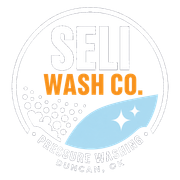
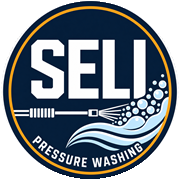
Rebrand as SELI Pressure Washing

diff --git a/src/data/business.ts b/src/data/business.ts
@@ -17,7 +17,7 @@
  *  4. There is no online booking. Requests are confirmed by hand.
  *  5. Square-foot coverage limits and per-square-foot overages are NOT
  *     confirmed and must not be published.
- *  6. Nothing may claim the concrete images are SELI Wash Co. work.
+ *  6. Nothing may claim the concrete images are SELI Pressure Washing work.
  *
  * Anything genuinely undecided is typed as `null` with a TBD comment rather
  * than filled with a plausible guess.
@@ -25,9 +25,9 @@
 
 export const business = {
   /** Public trading name. No legal entity is registered — never append a suffix. */
-  name: 'SELI Wash Co.',
+  name: 'SELI Pressure Washing',
   /** Split for the wordmark treatment only. */
-  nameParts: { lead: 'SELI', rest: 'Wash Co.' },
+  nameParts: { lead: 'SELI', rest: 'Pressure Washing' },
   tagline: 'Concrete Cleaning in Duncan',
 
   /** Plain description of what the business actually does, safe for meta tags. */

diff --git a/src/styles/tokens.css b/src/styles/tokens.css
@@ -1,5 +1,5 @@
 /* ============================================================
-   SELI Wash Co. — design tokens
+   SELI Pressure Washing — design tokens
    Carried over from the approved "Transformation" concept.
 
    The site commits to one visual world (navy ground, amber action) rather

diff --git a/BUSINESS_INPUTS.md b/BUSINESS_INPUTS.md
@@ -10,11 +10,11 @@ Owner answers as supplied. Anything marked **TBD** is genuinely undecided and mu
 
 | Question | Answer |
 | --- | --- |
-| 1. Public name | **SELI Wash Co.** |
+| 1. Public name | **SELI Pressure Washing** |
 | 2. Legal entity | **Not registered.** No LLC, Inc., or other suffix anywhere on the site. |
-| 3. Logo | **None.** Clean text wordmark for now. |
+| 3. Logo | **Confirmed.** Circular SELI Pressure Washing badge with pressure-washer, bubbles, and waves. |
 | 4. Tagline | **Pressure Washing & Exterior Cleaning** |
-| 5. Domain | **seliwash.com** — an idea only. Purchase and control **not confirmed**. **[Blocking]** |
+| 5. Domain | **seliwash.com** — purchased, owner-controlled, and live. |
 | 6. Brand colours | Keep the current navy, white/cool-grey, and amber. |
 
 > **Conflict to resolve.** The tagline says "Exterior Cleaning," but the launch scope is concrete flatwork only — no roofs, siding, gutters, fences, or decks. The tagline is used as supplied, and no service beyond flatwork is advertised, but a customer reading "Exterior Cleaning" may reasonably ask for house washing. Either narrow the tagline or expect to turn those enquiries down.
@@ -114,13 +114,13 @@ Never fabricate testimonials, ratings, job counts, years of experience, customer
 
 | Question | Answer |
 | --- | --- |
-| 46. Hosting | **Vercel proposed**, not finalised. Accounts must be owned and controlled by the owner. |
-| 47. Domain control | **Not confirmed.** Must be in the owner's own account. **[Blocking]** |
+| 46. Hosting | **GitHub Pages**, deployed from the owner-controlled GitHub repository. |
+| 47. Domain control | **Confirmed.** `seliwash.com` is in the owner's Porkbun account. |
 | 48. Form notifications | To **0xseli.business@gmail.com** once configured. Provider **TBD**. |
 | 49. Analytics | **TBD** |
 | 50. Confirmation email/text | **TBD** |
 | 51. State | **Oklahoma** |
-| 52. Privacy policy and terms | **TBD** — basic Oklahoma-appropriate pages required before public launch. |
+| 52. Privacy policy and terms | **Written and live.** They describe the SMS-only estimate workflow; no legal review is claimed. |
 | 53. Consent | Consent language limited to contact **about the requested estimate**. **No promotional SMS consent.** |
 | — | Spam protection **TBD**. |
 
@@ -128,13 +128,9 @@ Never fabricate testimonials, ratings, job counts, years of experience, customer
 
 ## Outstanding launch blockers
 
-1. **Domain** — `seliwash.com` is an idea; purchase and owner control unconfirmed.
-2. **Hosting and form handling** — no account, no provider, no delivery path for leads.
-3. **Privacy policy and terms** — required before public launch; not written.
-4. **Real before-and-after photos** — the gallery is placeholders and cannot ship that way.
-5. **Response-time, lead-time, cancellation, and weather policies** — the site currently promises nothing, which is safe but thin.
-6. **Chemical and specialty-treatment policy** — unresolved, and it limits what can be said about stain removal.
-7. **Business phone** — currently a personal number. Fine to launch with, but worth a deliberate decision.
-8. **Tagline vs. scope mismatch** — "Exterior Cleaning" is broader than the services offered.
-9. **Local registration, permit, and sales-tax position** — unverified.
-10. **Logo** — running on a wordmark; acceptable, not final.
+1. **Real before-and-after photos** — the gallery is placeholders and cannot represent completed company jobs.
+2. **Response-time, lead-time, cancellation, and weather policies** — the site currently promises nothing, which is safe but thin.
+3. **Chemical and specialty-treatment policy** — unresolved, and it limits what can be said about stain removal.
+4. **Business phone** — currently a personal number. Fine to launch with, but worth a deliberate decision.
+5. **Tagline vs. scope mismatch** — "Exterior Cleaning" is broader than the services offered.
+6. **Local registration, permit, and sales-tax position** — unverified.

diff --git a/README.md b/README.md
@@ -1,6 +1,6 @@
-# SELI Wash Co. website
+# SELI Pressure Washing website
 
-Production website for SELI Wash Co., a concrete flatwork pressure-washing business serving Duncan, Oklahoma.
+Production website for SELI Pressure Washing, a concrete flatwork pressure-washing business serving Duncan, Oklahoma.
 
 The site is built and live at **https://seliwash.com**.
 
@@ -54,7 +54,7 @@ Eight routes are built: Home, Services, Gallery, About, Contact, Privacy, Terms,
 
 ### Estimate workflow (SMS)
 
-The estimate form does not send data to a server. It validates the visitor's answers in the browser, composes a text message addressed to SELI Wash Co., and opens the visitor's messaging app. The visitor reviews the message, attaches any photos, and sends it.
+The estimate form does not send data to a server. It validates the visitor's answers in the browser, composes a text message addressed to SELI Pressure Washing, and opens the visitor's messaging app. The visitor reviews the message, attaches any photos, and sends it.
 
 - UI: `src/components/EstimateForm.astro`, behaviour in `src/scripts/estimate-form.ts`
 - Composer: `src/lib/estimate/` — see `src/lib/estimate/README.md` for the invariants
@@ -79,7 +79,7 @@ A before-and-after reveal on the two supplied concrete photographs, working on b
 
 ### Brand and map
 
-- Logo assets live in `public/brand/`. `src/components/Wordmark.astro` renders `seli-wash-logo-site.png` at 68px, dropping to 52px below 420px.
+- Logo assets live in `public/brand/`. `src/components/Wordmark.astro` renders `seli-pressure-washing-logo-site.png` at 68px, dropping to 52px below 420px.
 - `src/components/DuncanMap.astro` renders the Duncan street map from `public/img/duncan-street-map.png`, with the named streets in the alt text.
 
 ## Business content
@@ -93,7 +93,7 @@ Do not add reviews, credentials, completed-project photos, guarantees, or operat
 - No reviews, ratings, completed-project photos, job counts, or years of experience exist. Never fabricate any of them.
 - There is no online booking. Requests are confirmed by hand.
 - Square-foot coverage limits and per-square-foot overages are not confirmed and must not be published.
-- The concrete images are supplied placeholders and nothing may claim they are SELI Wash Co. work.
+- The concrete images are supplied placeholders and nothing may claim they are SELI Pressure Washing work.
 
 Anything genuinely undecided is typed as `null` in the data files with a TBD comment rather than filled with a plausible guess.
 

diff --git a/HANDOFF.md b/HANDOFF.md
@@ -1,8 +1,10 @@
-# SELI Wash Co. Website — Handoff
+# SELI Pressure Washing Website — Handoff
 
 ## Current status: built, deployed, and live
 
 The website is implemented and in production at **https://seliwash.com**, hosted on **GitHub Pages** from the `0xSELI/seli-wash-co-website` repository. The concept stage is over; this document describes what exists, what still binds any future change, and what remains open. The planning record that preceded implementation is preserved at the end, under [Historical planning record](#historical-planning-record).
+
+The public name is now **SELI Pressure Washing**. References to “SELI Wash Co.” inside the historical planning record refer only to the former name.
 
 `README.md` is the practical guide to the stack, local development, and deployment. This file covers the working boundaries and project continuity.
 
@@ -42,7 +44,7 @@ These came out of `BUSINESS_INPUTS.md` and remain in force. They are enforced in
 - **No proof exists yet.** No real reviews, ratings, completed-project photos, owner story, or Google Business Profile. Never fabricate testimonials, ratings, job counts, years of experience, or before/after results.
 - **No online booking.** Requests are confirmed by hand; nothing may imply instant booking or instant response.
 - **Square-foot coverage limits and per-square-foot overages are not confirmed** and must not be published.
-- **The concrete images are supplied placeholders**, shown unaltered and cropped rather than stretched. Nothing may claim they are SELI Wash Co. work.
+- **The concrete images are supplied placeholders**, shown unaltered and cropped rather than stretched. Nothing may claim they are SELI Pressure Washing work.
 - **Services are concrete flatwork only.** The `notOffered` list in `src/data/services.ts` is a deliberate, published "no" — do not soften it into a maybe.
 - **Stain honesty stands.** Oil, rust, paint, gum, and deeply embedded stains are not guaranteed to come out. Chemical and specialty-treatment policy is still TBD, so no plant-safe, pet-safe, eco-friendly, or chemical-free claim may appear.
 - **Consent is limited to contact about the requested estimate.** No promotional SMS consent.

diff --git a/PROJECT_BRIEF.md b/PROJECT_BRIEF.md
@@ -1,4 +1,4 @@
-# SELI Wash Co. Website — Project Brief
+# SELI Pressure Washing Website — Project Brief
 
 ## Project status
 
@@ -8,11 +8,11 @@ Business facts live in `BUSINESS_INPUTS.md`, which is the authority. This brief 
 
 ## Name and identity
 
-- **Public name:** SELI Wash Co.
+- **Public name:** SELI Pressure Washing
 - **Tagline:** Pressure Washing & Exterior Cleaning
 - **Legal structure:** not registered. No LLC or other suffix anywhere.
-- **Domain:** `seliwash.com` proposed; purchase and control unconfirmed.
-- **Logo:** none. A text wordmark stands in.
+- **Domain:** `seliwash.com` purchased, owner-controlled, and live.
+- **Logo:** circular SELI Pressure Washing badge with pressure-washer, bubbles, and waves.
 
 Note that the tagline is broader than the launch scope, which is concrete flatwork only. Either narrow the tagline or expect enquiries for services that will be turned down.
 
